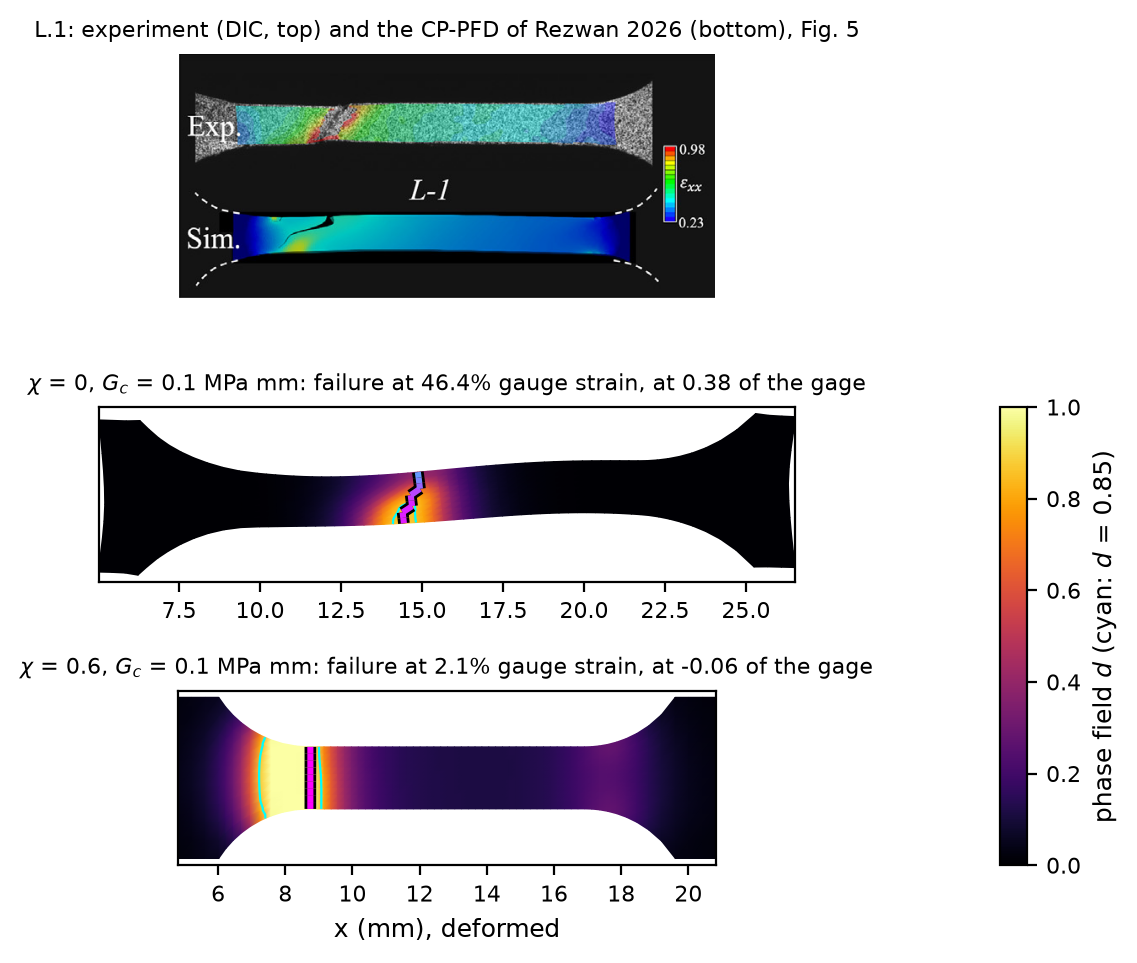
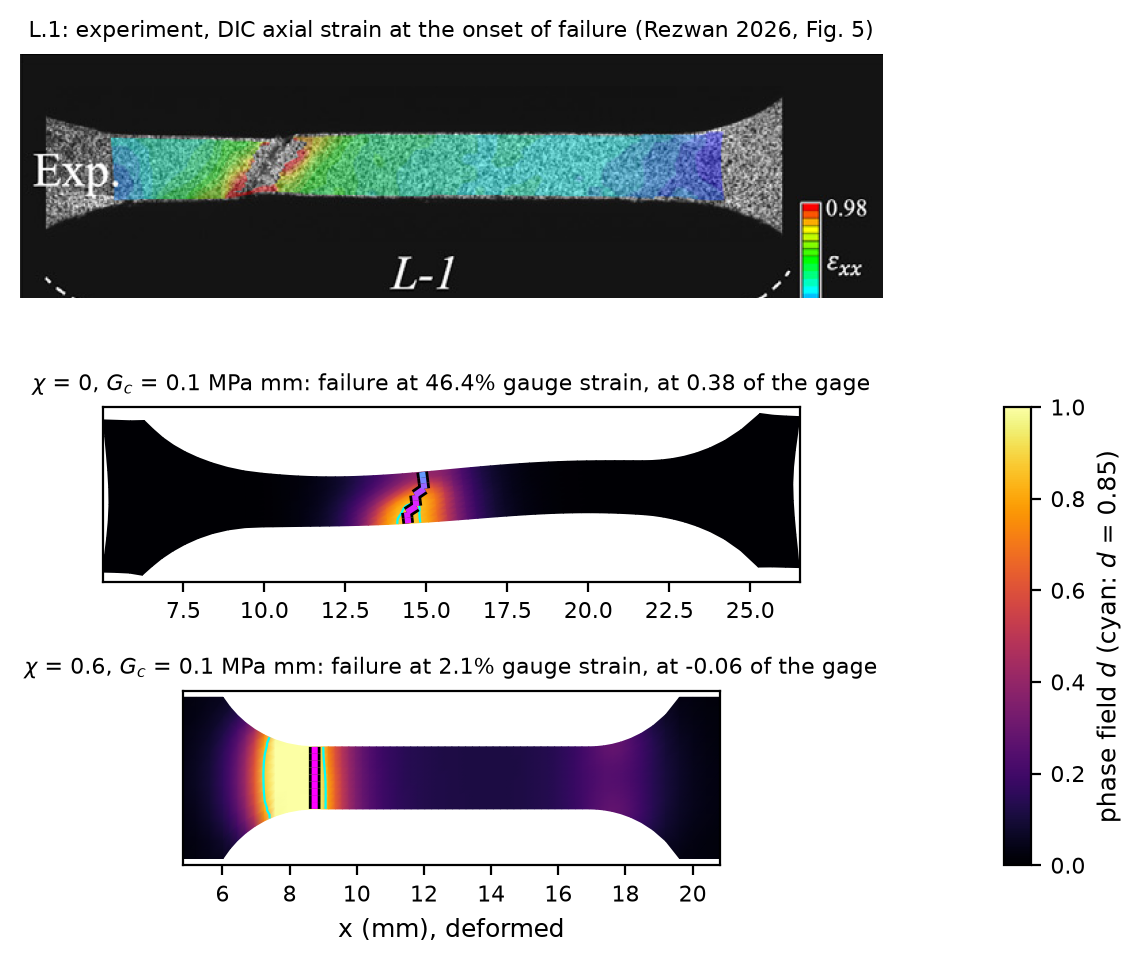
Ni report §7: thresholded CP+PFD calibration (chi = 1 barrier, chi = 0 calibrated set, the two conditions compared, chi sweep, carried set chi 0 / W_c 75 / G_c 0.1 / l0 0.6); experiment-only Fig. 5 panels in every field figure; Eq. (10) with chi; bib

diff --git a/scripts/ni_fig5_exp_crops.py b/scripts/ni_fig5_exp_crops.py
@@ -1,0 +1,31 @@
+#!/usr/bin/env python3
+"""Experiment-only crops of the Fig. 5 panels (data/digitized/ni_fig5_panels/<spec>.png).
+
+Each panel stacks the DIC experiment ("Exp.") above the paper's own simulation ("Sim.").
+The author (2026-10-23) wants only the experiment next to this study's fields, so the
+top ``FRACTION`` of every panel (the Exp. strip, the specimen label and the color scale,
+which sits between the two strips) is written as ``<spec>_exp.png``.
+
+Usage: ni_fig5_exp_crops.py [FRACTION]   (default 0.62)
+"""
+import sys
+from pathlib import Path
+
+from PIL import Image
+
+ROOT = Path(__file__).resolve().parent.parent / "data/digitized/ni_fig5_panels"
+
+
+def main(argv):
+    frac = float(argv[1]) if len(argv) > 1 else 0.62
+    for p in sorted(ROOT.glob("*.png")):
+        if p.stem.endswith("_exp"):
+            continue
+        im = Image.open(p)
+        im.crop((0, 0, im.width, int(round(frac * im.height)))).save(p.with_name(p.stem + "_exp.png"))
+        print("wrote", p.with_name(p.stem + "_exp.png").name)
+    return 0
+
+
+if __name__ == "__main__":
+    sys.exit(main(sys.argv))

diff --git a/docs/reports/ni_single_crystal_pinnacle_benchmark_report.md b/docs/reports/ni_single_crystal_pinnacle_benchmark_report.md
@@ -1,18 +1,18 @@
 # Crystal plasticity and phase-field ductile fracture of single-crystal Ni tensile specimens with PINNACLE: finite-element calibration and the PINN+FEM, PINN and surrogate routes
 
-Technical report, draft of 2026-10-21. Status: methodology (§2),
+Technical report, draft of 2026-10-23. Status: methodology (§2),
 numerical method (§3), the crystal-plasticity parameter calibration (§4),
-the mesh sensitivity (§5) and the phase-field fracture calibration without a
-plastic-work threshold (§6) written for the production mesh h020; the
-thresholded calibration (§7), the fifteen specimens and the neural and
-surrogate routes follow as they are confirmed by the author; abstract and introduction are held until the
+the mesh sensitivity (§5) and the two phase-field fracture calibrations,
+without (§6) and with (§7) a plastic-work threshold, written for the
+production mesh h020; the fifteen specimens and the neural and surrogate
+routes follow as they are confirmed by the author; abstract and introduction are held until the
 study is closed. Every number here traces to a run in `docs/run_ledger.md`
 (rows `ni-*`) and to a deck under `decks/ni/`; the lab notebook is
 `docs/12_ni_study.md`, the plan `docs/11_ni_plan.md`. Figures of §4 are
 produced by `scripts/ni_calibration_figures.py` from
 `decks/ni/figures/cal_figures.i`, those of §5 by `scripts/ni_mesh_figures.py`
 and `scripts/ni_fields.py` from `decks/ni/figures/mesh_figures_h020.i` and
-`decks/ni/figures/fields_mesh_h020.i`, those of §6 by
+`decks/ni/figures/fields_mesh_h020.i`, those of §6 and §7 by
 `scripts/ni_pfd_curve_figures.py`, `scripts/ni_pfd_search_figures.py` and
 `scripts/ni_pfd_shape_figures.py` from `decks/ni/figures/pfd_*.i`.
 
@@ -686,11 +686,14 @@ $d$ obeys
 
 $$
 \frac{G_c}{\ell_0}\, d - G_c \ell_0 \nabla^2 d = 2 (1-d)\, \mathcal{H}, \qquad
-\mathcal{H}(t) = \max_{\tau \le t} \left[ \psi^+(\tau) + \zeta \left\langle W_p(\tau) - W_c \right\rangle \right] ,
+\mathcal{H}(t) = \max_{\tau \le t} \left[ \chi\, \psi^+(\tau) + \zeta \left\langle W_p(\tau) - W_c \right\rangle \right] ,
 \tag{10}
 $$
 
-with $\psi^+$ the positive part of the elastic energy density, $W_p =
+with $\psi^+$ the positive part of the elastic energy density (Miehe's
+spectral split of the elastic Green-Lagrange strain with the Voigt average
+of the cubic constants), $\chi$ a prefactor on it ($\chi = 1$ in this
+section, the form of the Al2219 report), $W_p =
 \int \sum_\alpha \tau^\alpha \dot{\gamma}^\alpha \, dt$ the accumulated
 plastic work density per unit reference volume (the slip of Eq. (4) against
 the resolved shear stress of Eq. (3)), $\zeta = 1$, $W_c$ the plastic-work
@@ -700,8 +703,9 @@ stresses of Eq. (3) are formed, so a damaged point keeps its flow stress
 and loses its load-carrying capacity only as $g \to 0$. Mechanics and damage are solved in a staggered loop of up to three
 alternations per load step (tolerance $10^{-3}$ on the damage increment)
 along the 300-step path of §3.2, with $d = 0$ held on the grip faces. This
-section reports the condition $W_c = 0$, in which the plastic work drives
-damage from the first load step; §7 reports the thresholded condition.
+section reports the condition $W_c = 0$, $\chi = 1$, in which the plastic
+work drives damage from the first load step; §7 reports the thresholded
+condition.
 
 **Failure criterion.** Failure is the first load step at which the nodes
 with $d > 0.85$ cut the specimen in two: the intact nodes are joined along
@@ -770,8 +774,8 @@ calibrated crystal plasticity without damage (dashed) and the target
 
 **Figure 13.** Axial Green-Lagrange strain $E_{xx}$ on the deformed top face
 at failure for the four pairs, with the $d > 0.85$ zone outlined in black,
-against the paper's Fig. 5 panel of L.1 (DIC above, the paper's
-simulation below).
+against the experiment's DIC panel of L.1 (axial strain at the onset of
+failure, the paper's Fig. 5; only the experiment is shown).
 
 ![plateau shapes](../../figures/ni/pfd/shape_L1_plateau.png)
 
@@ -857,14 +861,201 @@ failure step).
 
 ## 7. Phase-field ductile fracture: calibration with a plastic-work threshold
 
-*(in progress: $\ell_0 = 0.6$ mm fixed; $G_c$ searched at $W_c = 55$, 65 and
-75 MPa, bracketing the softening onset of the experimental curve; the
-prefactor on the elastic energy of Eq. (10) as the next calibration
-parameter; results follow as the author confirms them)*
-
 ### 7.1 Design
 
-### 7.2 The threshold trend
+The $W_c = 0$ condition of §6 reproduces the failure strain but not the
+path to it: the phase field grows from the first load step, the curve sits
+2 to 6% under the experiment from 20% strain on, and the fracture zone is a
+band normal to the axis (§6.4). The threshold stage asks the model to
+follow the experimental curve for as long as possible before fracture and
+then to fail at 0.463. The calibrated crystal plasticity without damage
+matches the experiment within 0.8% to the 45% marker, so the plastic work
+density at that strain is the natural scale of $W_c$: in the $W_c = 0$
+check run the gage-peak plastic work is 61 MPa at 38%, 73.5 at 44% and 76
+at 46.3%. A threshold above 76 MPa cannot fail at the target, so $W_c$ was
+bracketed at 55, 65 and 75 MPa (damage onset near 36, 41 and 46% strain)
+with $G_c$ searched to the failure strain at each value, at the fixed
+$\ell_0 = 0.6$ mm of §6.3 (decks `decks/ni/pfd/wc*_L1_h020.i`, driver
+`scripts/ni_pfd_calibrate.py`, one search per threshold side by side).
 
-### 7.3 Calibrated pair and comparison with the experiment
+**Failure definition.** The separation criterion of §6.1 is kept, with one
+addition for a sharp crack: when the cracking step's mechanics stop
+converging before the $d > 0.85$ zone spans the section, the run counts
+as failed at its last converged step if the maximum $d$ has reached 0.85
+and the load has fallen by more than 3% from its peak (the section is
+losing its load through the crack). This fires on one run of this section,
+the carried one.
 
+### 7.2 The elastic driving energy as a barrier ($\chi = 1$)
+
+The first round kept the driving force of §6 ($\chi = 1$). Every $G_c$
+small enough to fail by 0.463 cracked the fillets at 4 to 14% strain,
+before any plastic work had reached $W_c$ (Table 7, Fig. 16): with the
+threshold on the plastic work only, the elastic energy $\psi^+$ drives
+damage from the first step, and the AT2 model has a tensile strength
+$\sigma_c = \sqrt{27 E G_c / (256\,\ell_0)}$ (tanne 2018 crack) that falls
+to 100 to 375 MPa at the $G_c/\ell_0$ of 0.5 to 7 MPa these runs needed,
+below the stress the fillet transition carries (the check on the coupled
+cube in `docs/12_ni_study.md` §6.4 confirms the coupler passes the stored
+elastic energy itself; the fillet energy is real). At the one pair that
+nearly reached the target ($W_c$ 65, $G_c$ 8) the damage localized at the
+fillet, not in the gage. The threshold did what it was meant to do where
+the fillets held: at $W_c$ 55 and $G_c$ 16 the curve lies on the
+experiment within 1% to 45% (peak 241 MPa against 239), $d$ stays below
+0.1 to 30% and rises from a knee at 37%; the run had not failed by 48%.
+
+**Table 7.** First round, $\chi = 1$, $\ell_0 = 0.6$ mm. Onset is the strain
+at which the maximum $d$ passes 0.1; location as in Table 6.
+
+| $W_c$ (MPa) | $G_c$ (MPa mm) | $G_c/\ell_0$ (MPa) | end of run | onset | peak stress (MPa) | where |
+|---|---|---|---|---|---|---|
+| 75 | 0.3 | 0.5 | separated at 0.037 | 0.3% | 94 | fillet (-0.10 of the gage) |
+| 75 | 1.2 | 2.0 | mechanics lost at 0.092, $d$ 0.67 | 2% | 127 | fillet |
+| 65 | 2 | 3.3 | separated at 0.138 | 6% | 148 | fillet (-0.16) |
+| 65 | 8 | 13 | mechanics lost at 0.458, $d$ 0.998 (28 nodes above 0.85) | 17% | 233 | fillet (-0.10) |
+| 55 | 4 | 6.7 | mechanics lost at 0.122, $d$ 0.15 | - | 145 | - |
+| 55 | 16 | 27 | no failure by 0.480, $d$ 0.72 | 30% | 241 | gage, diffuse |
+
+**Figure 16.** First round ($\chi = 1$): stress-strain curves (top) and
+maximum phase field (bottom) at each threshold, with the $W_c = 0$ pair of
+§6.3 in gray.
+
+![W_c round 1 curves](../../figures/ni/pfd/curves_L1_wc_round1.png)
+
+The elastic energy therefore picks the fillet and the plastic work the
+gage, and the two cannot be balanced by $G_c$ alone. PINNACLE gained a
+prefactor $\chi$ on the elastic energy in Eq. (10) (the author's MOOSE
+CP-PFD carries such prefactors on both energies); $\chi = 0$ is the purely
+ductile driving force, in which $W_c$ alone sets the onset and the plastic
+work alone picks the site, and $\chi = 1$ keeps every earlier deck as it
+was.
+
+### 7.3 Calibrated $G_c(W_c)$ with the purely ductile driving force ($\chi = 0$)
+
+**Table 8.** Calibrated pairs at $\chi = 0$, $\ell_0 = 0.6$ mm, h020. Onset
+as in Table 7; stress ratios against the experiment markers at 20 / 30 /
+40 / 45%; the fracture zone from the top face at failure; the flank angle
+from the principal direction of the $d > 0.85$ nodes (for the narrow
+$W_c = 75$ zone the crack line of Fig. 19 is the better descriptor).
+
+| $W_c$ (MPa) | $G_c$ (MPa mm) | failure strain | mode | onset | stress / experiment | peak (MPa) at strain | zone center | zone width (mm) | flank |
+|---|---|---|---|---|---|---|---|---|---|
+| 55 | 3.255 | 0.458 | separation | 35.8% | 0.996 / 0.996 / 0.986 / 0.984 | 234.4 at 45.8% | 0.39 | 2.5 | 55 deg |
+| 65 | 1.384 | 0.459 | separation | 40.7% | 0.996 / 0.996 / 1.000 / 0.978 | 234.9 at 43.1% | 0.41 | 2.3 | 58 deg |
+| 75 | 0.1 | 0.464 | load drop (5.9%) | 45.7% | 0.996 / 0.996 / 1.000 / 1.008 | 241.5 at 45.5% | 0.38 | 0.6 | inclined (line) |
+
+**Figure 17.** Stress-strain curves (top) and maximum phase field (bottom)
+of the three calibrated pairs against the experiment, with the $W_c = 0$
+pair of §6.3 in gray. Crosses mark failure.
+
+![W_c calibrated curves](../../figures/ni/pfd/curves_L1_wc_cal.png)
+
+**Figure 18.** Every run of the three $\chi = 0$ searches, one panel per
+threshold, for reference.
+
+![W_c chi 0 searches](../../figures/ni/pfd/curves_L1_wc_chi0.png)
+
+**Figure 19.** Axial Green-Lagrange strain $E_{xx}$ on the deformed top face
+at failure for the three calibrated pairs, with the $d > 0.85$ zone
+outlined in black and the crack line (for each node row across the gage
+width, the node of largest $d$; colored by that $d$) against the
+experiment's DIC panel.
+
+![W_c calibrated shapes](../../figures/ni/pfd/shape_L1_wc_cal.png)
+
+**Figure 20.** The phase field at failure for the same runs, with the
+$d = 0.85$ contour in cyan and the crack line.
+
+![W_c calibrated damage](../../figures/ni/pfd/shape_L1_wc_cal_damage.png)
+
+With the purely ductile driving force every threshold reproduces the
+experiment to failure: the three curves are indistinguishable from each
+other and from the markers within 1 to 2% from 20 to 45% strain, peak at
+234 to 242 MPa against the experiment's 239, and the phase field is exactly
+zero until the plastic work crosses $W_c$ (36, 41 and 46% strain) and then
+rises steeply to failure within 10, 5 and 0.7% strain of its onset (Fig.
+17). The damage sits in the gage and the crack is inclined at 48 to 60
+degrees across the width, at 0.38 to 0.41 of the gage (Figs. 19 and 20);
+the experiment's crack is at 0.20 and 55 to 60 degrees. The three
+thresholds differ in the toughness they need: $G_c$ falls thirty-fold from
+55 to 75 MPa, because the plastic work that accrues beyond $W_c$ before
+0.463 falls from about 17 to about 1 MPa, and the AT2 field reaches 0.85
+only when that excess is several times $G_c/\ell_0$. The fracture zone
+narrows accordingly, from 2.5 mm at $W_c = 55$ to 0.6 mm (three cells) at
+75.
+
+### 7.4 How and why the two calibrations differ
+
+**Table 9.** The carried pair of each condition.
+
+| | $W_c = 0$, $\chi = 1$ (§6) | $W_c = 75$ MPa, $\chi = 0$ (§7) |
+|---|---|---|
+| $G_c$ (MPa mm) at $\ell_0 = 0.6$ mm | 30.95 | 0.1 |
+| what $G_c/\ell_0$ sets | the nucleation strength: failure strain follows $G_c/\ell_0$ alone (Fig. 11) | the energy that completes the cut once $W_p > W_c$ |
+| damage onset (max $d$ > 0.1) | 3% | 45.7% |
+| max $d$ at 20 / 40% strain | 0.51 / 0.75 | 0 / 0 |
+| stress / experiment at 20 / 40% | 0.973 / 0.948 | 0.996 / 1.000 |
+| peak stress (MPa) | 225 | 241.5 |
+| failure strain | 0.460 | 0.464 |
+| load at failure | lost in one to two steps, 216 to 157 MPa | 227 MPa, 6% below the peak, when the mechanics loses the cracking step |
+| fracture zone at failure | band 2.3 mm wide, flanks within 3 degrees of the normal to the axis, at 0.21 of the gage; whole gage above $d$ = 0.6 | line 0.6 mm wide, inclined across the width, at 0.38 of the gage; the rest of the specimen at $d$ = 0 |
+| mesh cost to failure | 231 steps, 6,600 Newton iterations | 243 steps, 4,600 Newton iterations |
+
+The two conditions are different models of the same material, not two
+values of one parameter. With $W_c = 0$ the whole plastic work drives
+damage, so the phase field is a slowly saturating function of the
+accumulated work everywhere in the gage (§6.4), the degradation of that
+diffuse field is what lowers the curve, and $G_c/\ell_0$ acts as a strength
+that decides when the saturating field reaches 0.85 across the thinnest
+section; the toughness is large (31 kJ/m$^2$) because it must hold back
+the work of the entire path. With $W_c = 75$ MPa nothing is damaged until
+the work at a point exceeds the threshold, which in this single crystal
+happens first at one row of the gage at 45.7%; the field there goes from 0
+to 0.85 within 0.7% strain and the toughness needed to let it do so is
+0.1 MPa mm, three hundred times smaller, because only the excess work
+beyond the threshold, about 1 MPa, is available to pay for the crack. The
+threshold replaces the dissipation that a polycrystal supplies through its
+neighboring grains (the Al2219 plate needed none): in a single crystal the
+plastic work is nearly uniform along the gage and all of it would count,
+so the single-crystal coupling needs $W_c$ to concentrate the damage in
+strain as well as in space. The location is the one feature neither
+condition reproduces: the plastic work of the model peaks at 0.38 to 0.41
+of the gage where the experiment cracked at 0.20, near the thinnest
+measured station.
+
+### 7.5 The elastic share at the carried pair
+
+At the carried pair ($W_c$ 75, $G_c$ 0.1) the elastic prefactor was raised
+to 0.3, 0.6 and 0.8 to see whether a growing elastic share moves the crack
+(`decks/ni/pfd/wc75_gc0.1_chi*_L1_h020.i`). It does not move it along the
+gage; it moves it to the fillet outright: $\chi = 0.6$ separated at 2.1%
+strain at -0.06 of the gage, $\chi = 0.3$ lost its mechanics at 4.0% with
+$d = 0.95$ there, as the AT2 strength of 33 to 54 MPa at $G_c/\ell_0 =
+0.17$ MPa predicts ($\chi = 0.8$ is being rerun; its first run was killed
+by the memory cap before the fillet cracked). At the $G_c$ a late ductile
+onset needs, the driving force has to be purely ductile.
+
+**Figure 21.** The elastic share at the carried pair: curves and maximum
+phase field for $\chi$ = 0, 0.3 and 0.6.
+
+![chi sweep](../../figures/ni/pfd/curves_L1_chi_sweep.png)
+
+### 7.6 Carried set
+
+Every later phase-field stage of this study runs with
+
+$$
+\chi = 0, \qquad W_c = 75 \ \mathrm{MPa}, \qquad G_c = 0.1 \ \mathrm{MPa\,mm}, \qquad \ell_0 = 0.6 \ \mathrm{mm},
+$$
+
+on h020 with the crystal-plasticity set of Table 2 and the failure
+definition of §7.1. The $W_c = 0$ pair of §6.3 is kept as the reference
+condition.
+
+### 7.7 Cost
+
+The $\chi = 0$ runs take 5 to 10 h each to failure on two threads; the three
+searches needed fourteen runs (Fig. 18). A run whose crystal-plasticity
+update falls back to sub-stepping at one point can exceed the 16 GB memory
+cap and is killed; such runs are mechanics deaths, not results, and are
+rerun under a 40 GB cap (`docs/run_ledger.md`, rows `ni-pfd-*`).

diff --git a/.claude/FINDINGS.md b/.claude/FINDINGS.md
@@ -542,3 +542,10 @@ NOT derivable from the code: measured facts, decisions, and traps.
   W_c 75 / G_c 30 / chi 0.55 check at 14.9% with d 0.011, chi 0.8 at 1.5%. It is a mechanics death,
   not a result; such runs are rerun under `base_L1_h020_cap40.i` (40 GB) when the host is free.
   A PINNACLE-side bound on the sub-stepper's memory is the proper fix (not yet done).
+
+## 2026-10-23: carried PFD set and reporting (author)
+- Going forward: chi = 0, W_c = 75 MPa, G_c = 0.1 MPa mm, l0 = 0.6 mm on h020 (report §7.6).
+- Report both calibrations (W_c = 0, §6; W_c > 0 at chi = 0, §7) with how and why they differ in
+  nature and value (§7.4). Field figures show only the experiment's DIC panel
+  (`data/digitized/ni_fig5_panels/<spec>_exp.png`, `scripts/ni_fig5_exp_crops.py`); the paper's
+  simulation strip is left out to avoid confusion about what is simulated here.

diff --git a/docs/12_ni_study.md b/docs/12_ni_study.md
@@ -762,3 +762,10 @@ percent of strain, as the AT2 strength sqrt(27 E chi G_c / (256 l0)) = 33-54 MPa
 contribution does not shift the crack along the gage, it moves it to the fillet outright.
 `curves_L1_chi_sweep.png`, `shape_L1_chi_sweep_damage.png`.
 
+Report §7 written (2026-10-23): 7.1 design and the failure definition, 7.2 the chi = 1 round as the
+elastic barrier (Table 7, Fig. 16), 7.3 the chi = 0 calibration (Table 8, Figs. 17-20), 7.4 the two
+calibrations compared in nature and value (Table 9), 7.5 the chi sweep (Fig. 21), 7.6 the carried set
+(chi 0, W_c 75, G_c 0.1, l0 0.6), 7.7 cost. Eq. (10) now carries chi. Every shape figure redrawn
+with the experiment-only panel (`ni_fig5_panels/<spec>_exp.png`); the W_c = 0 round-2 and the
+round-1 figures kept as records. `tanne-2018-crack` added to the bibliography (AT2 strength).
+

diff --git a/data/digitized/ni_fig5_panels/README.md b/data/digitized/ni_fig5_panels/README.md
@@ -7,3 +7,7 @@ scale) above the paper's CP-PFD simulation ("Sim."). Crop boxes in pixels of the
 rows 9 (5-295), 10 (310-600), H (615-905), L (920-1210), P (1232-1522); columns x.1
 (5-640), x.3 (640-1268), x.4 (1268-1895). Made 2026-10-20 for the Part III fracture-shape
 comparison (docs/12 §6). Tier: published figure, not digitized values; no scale bar.
+
+`<spec>_exp.png` (2026-10-23): the top 62% of each panel, the experiment's DIC strip with the
+specimen label and the color scale, without the paper's simulation (author: the comparison
+figures show only the experiment next to this study's fields). `scripts/ni_fig5_exp_crops.py`.
